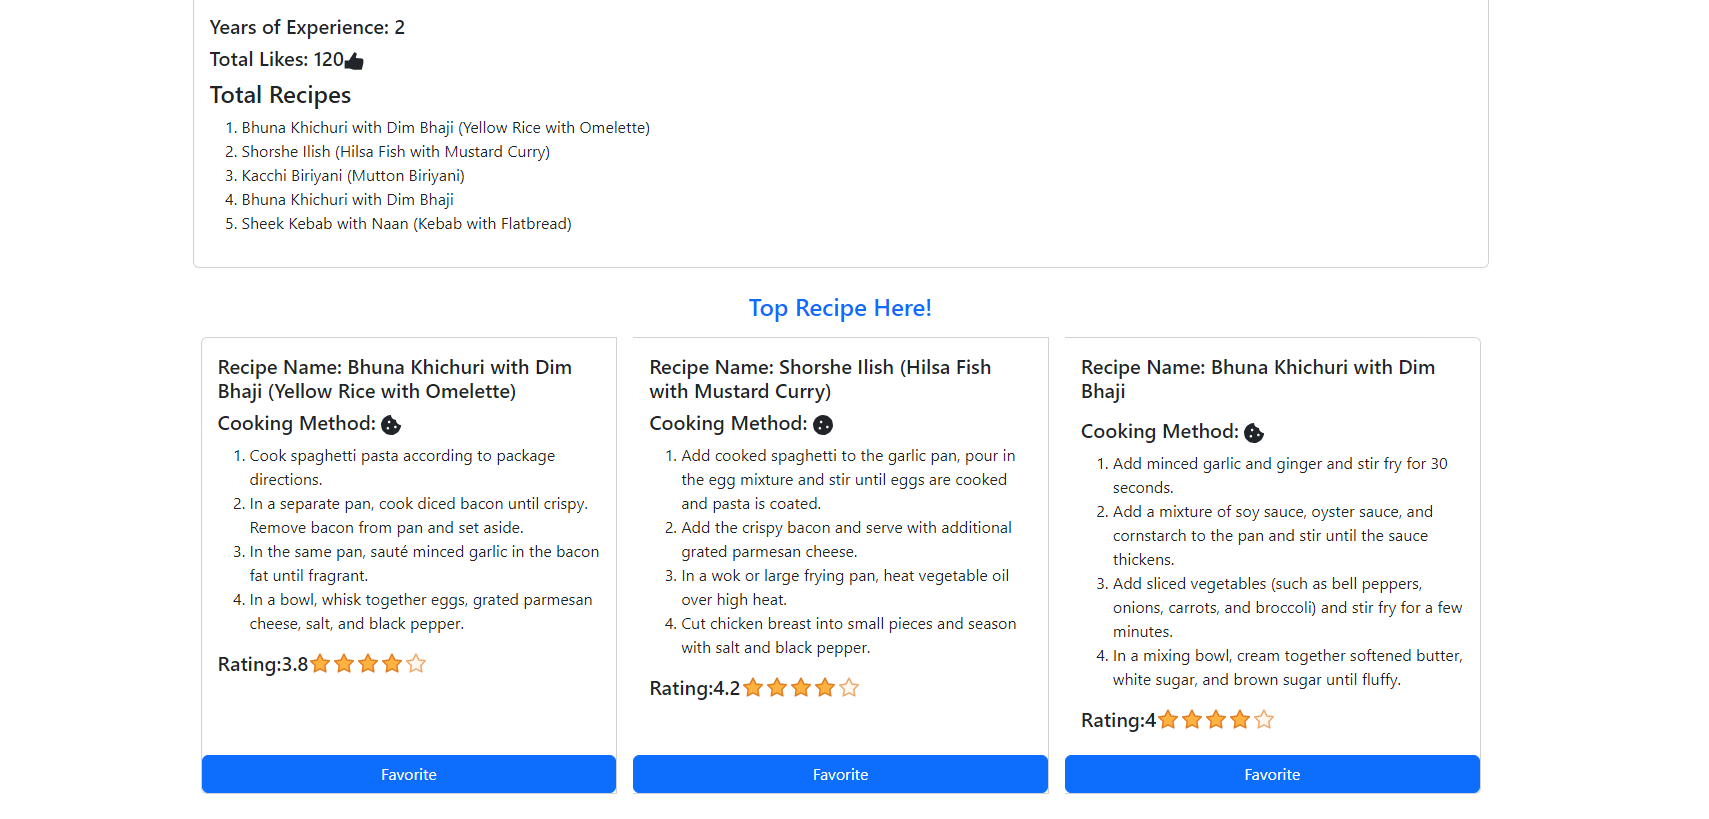
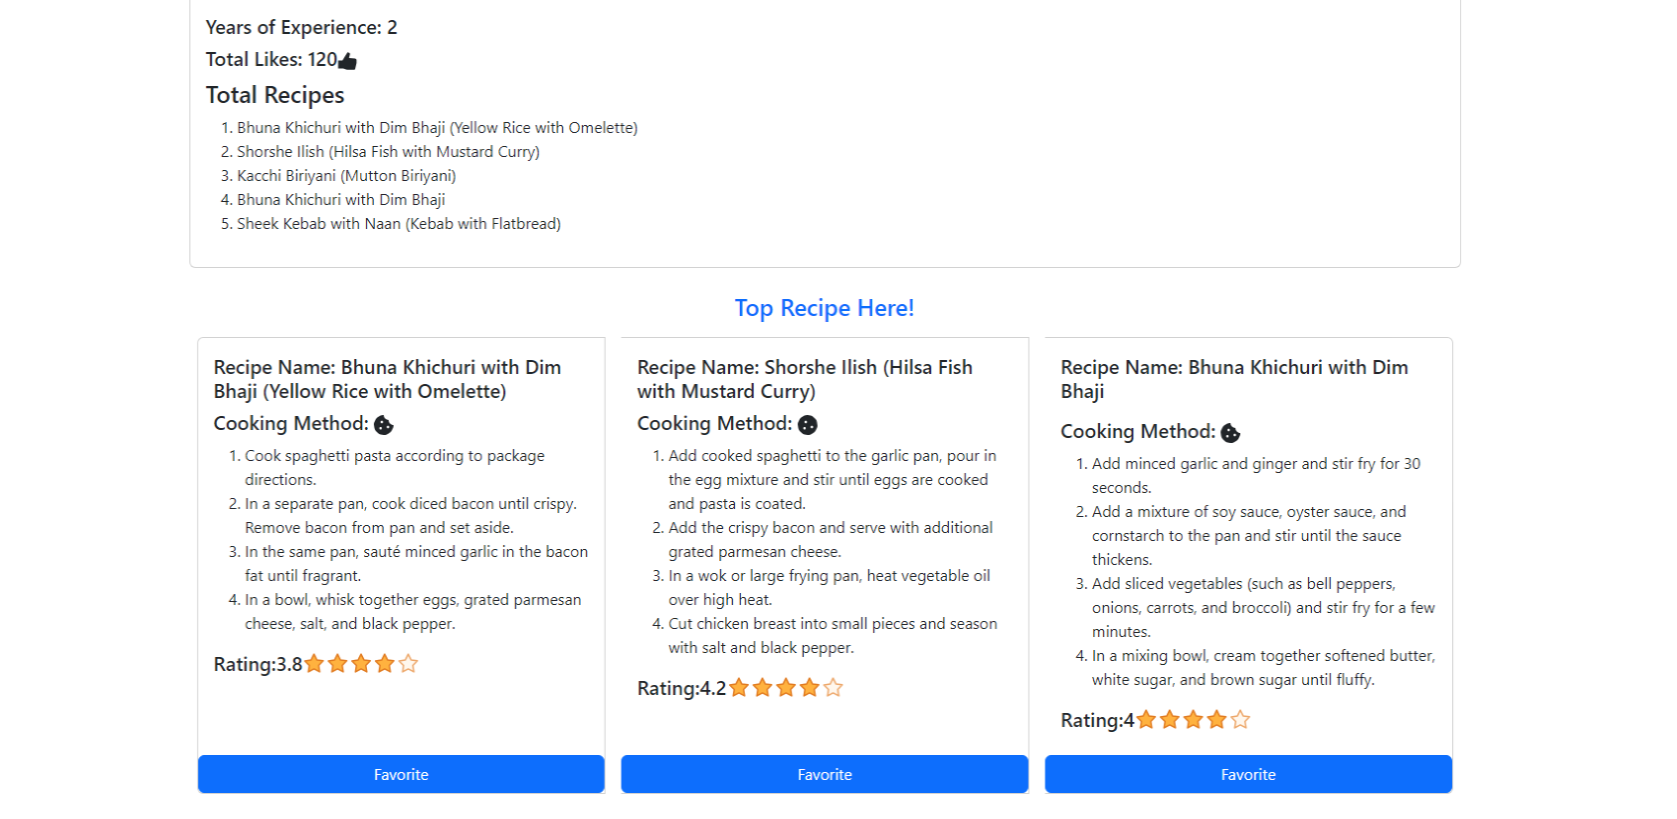
mobile fix

diff --git a/src/components/MyProject/ToysProject.jsx b/src/components/MyProject/ToysProject.jsx
@@ -9,7 +9,7 @@ const ToysProject = () => {
                         {/* toys school */}
                         <div className="hero w-full">
   <div className="hero-content flex-col lg:flex-row-reverse">
-    <div className="text-center lg:text-left w-1/2 font-serif md:p-14">
+    <div className="text-center sm:text-left lg:text-left w-1/2 font-serif md:p-14">
       <h1 className="text-3xl font-bold mb-3">Happy Education!</h1>
       <ul>
         <li>Any one can see All Toys</li>
@@ -24,7 +24,7 @@ const ToysProject = () => {
       <a href="https://github.com/tufaelkhan/toys-sealer-server" className='btn btn-outline btn-secondary mr-5' target='blank'>Server site</a>
       </div>
     </div>
-    <div className="card flex-shrink-0 w-[53%] border-4 border-black">
+    <div className="card flex-shrink-0 md:w-[53%] border-4 border-black">
      <div className=' md:flex lg:flex'>
      <img src={toy3} style={{height: 150}} alt="" />
 <img src={toy4} style={{height: 150}} alt="" />

diff --git a/src/components/MyProject/RecipeProject.jsx b/src/components/MyProject/RecipeProject.jsx
@@ -25,7 +25,7 @@ const RecipeProject = () => {
       <a href="https://github.com/tufaelkhan/chef-recepe-server" className='btn btn-outline btn-secondary mr-5' target='blank'>Server site</a>
       </div>
     </div>
-    <div className="card flex-shrink-0 w-[55%] border-4 border-black">
+    <div className="card flex-shrink-0 md:w-[55%] border-4 border-black">
      <div className=' md:flex lg:flex'>
      <img src={recipe1} style={{height: 150}} alt="" />
 <img src={recipe2} style={{height: 150}} alt="" />

diff --git a/src/components/MyProject/MyProject.jsx b/src/components/MyProject/MyProject.jsx
@@ -29,7 +29,7 @@ const MyProject = () => {
       <a href="https://github.com/tufaelkhan/language-school-server" className='btn btn-outline btn-secondary mr-5' target='blank'>Server site</a>
       </div>
     </div>
-    <div className="card flex-shrink-0 w-[55%] border-4 border-black">
+    <div className="card flex-shrink-0 md:w-[55%] border-4 border-black">
    <div className=' md:flex lg:flex'>
      <img src={lan1} style={{height: 150}} alt="" />
 <img src={lan2} style={{height: 150}} alt="" />
